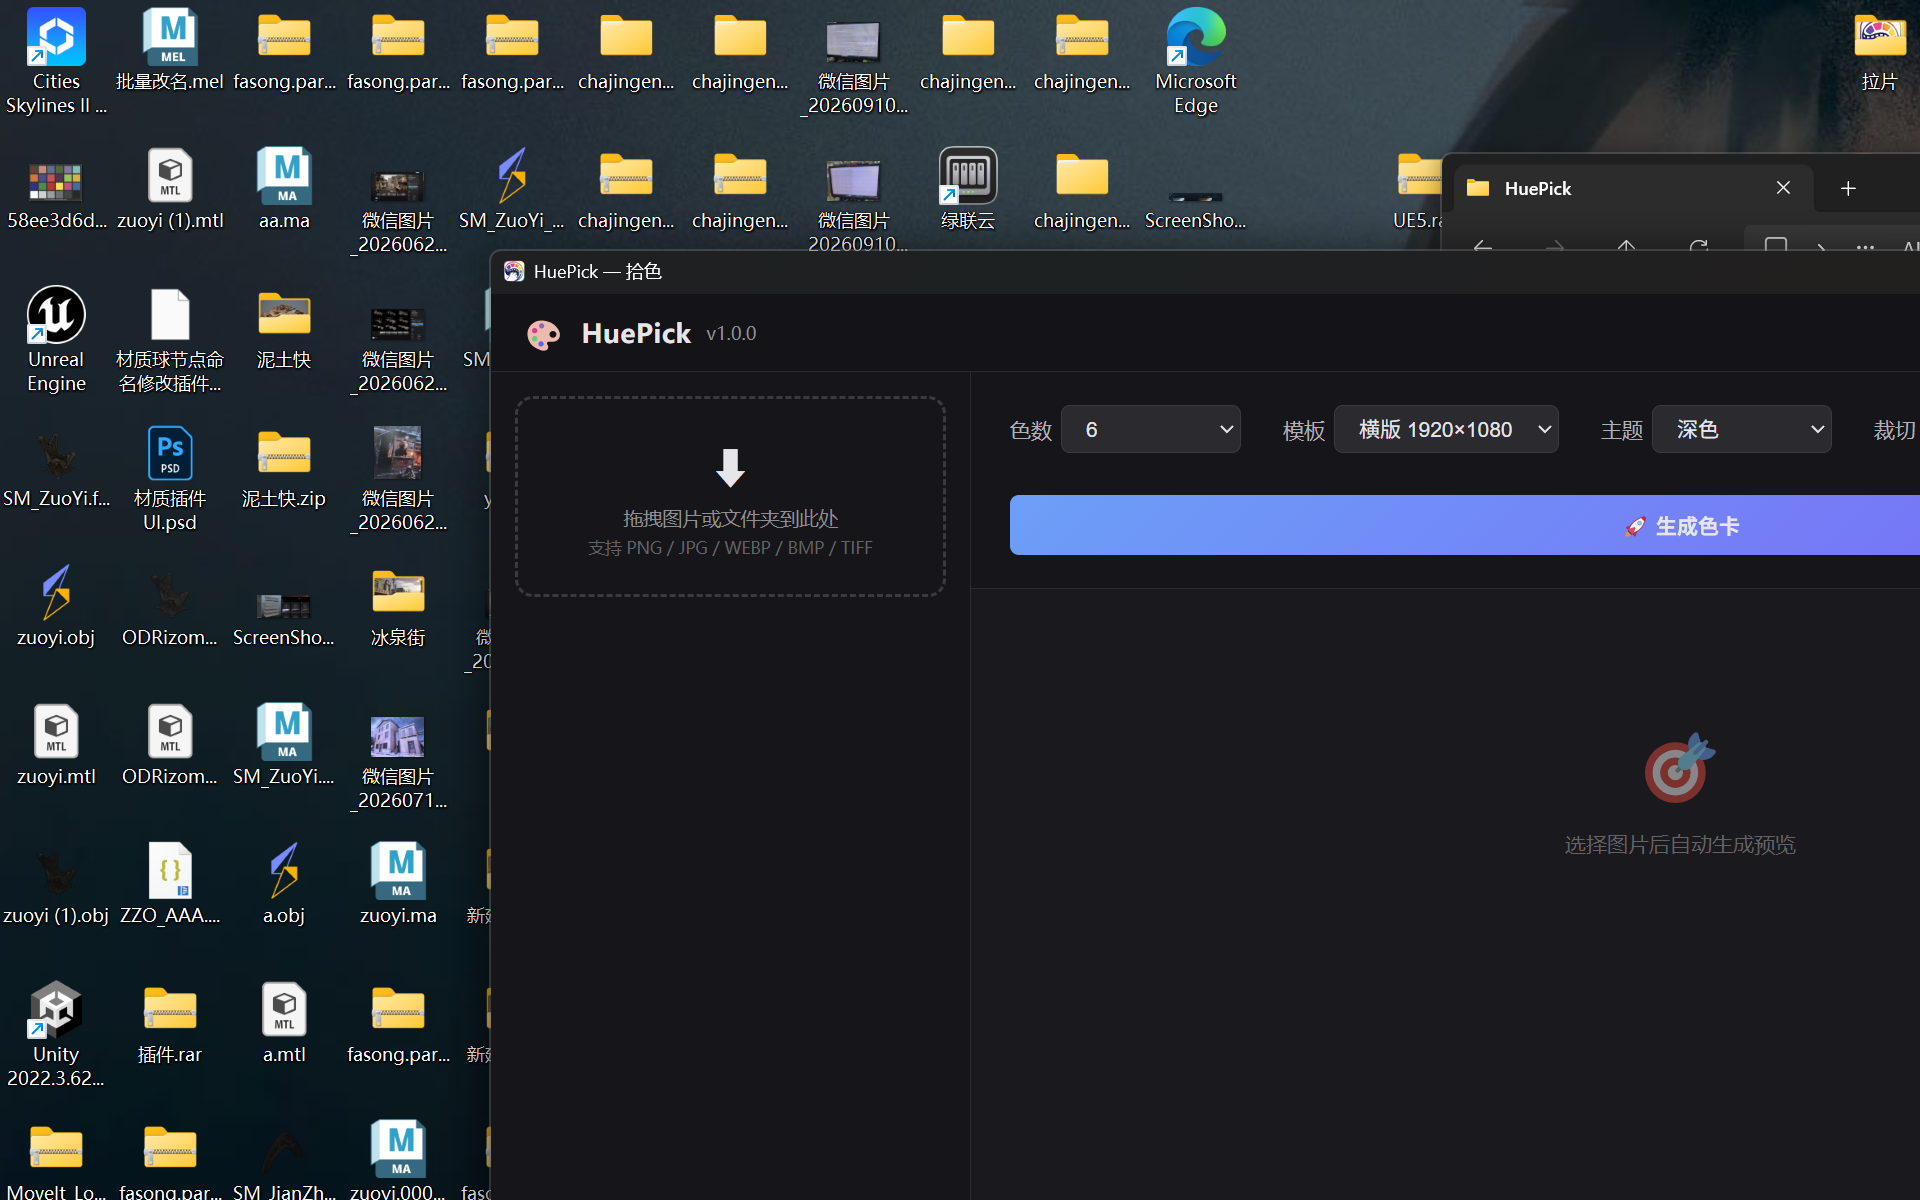
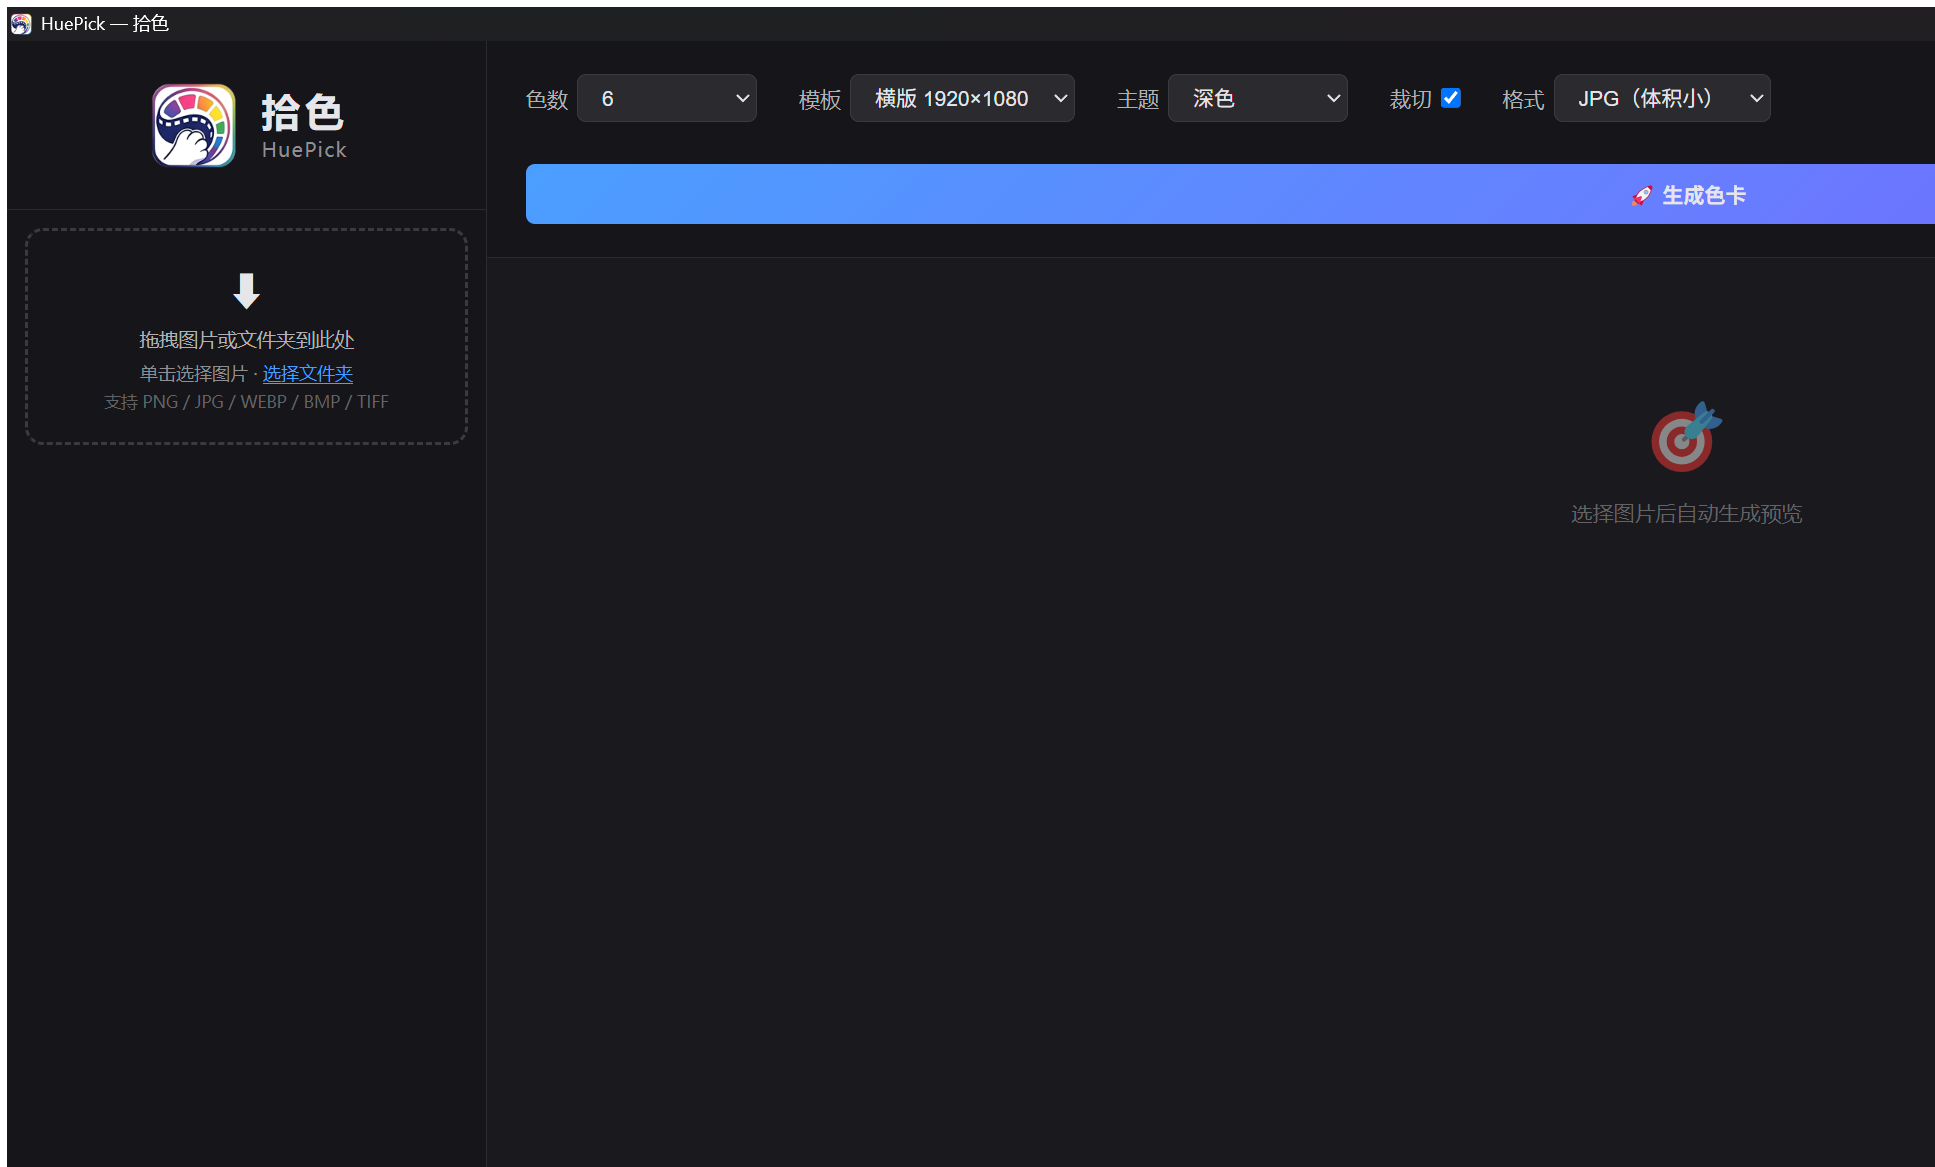
patch: 品牌区放大居中 + 文档更新到 v1.2.0
- 品牌区尺寸升级：Logo 64x64（圆角 14px），中文「拾色」26px，英文 HuePick 13px
- 品牌区整体居中，padding 24px
- 更新主界面图鉴截图 ui_main.png（反映新布局：无顶栏 + 品牌区左栏顶部 + 底栏）
- MD 文档版本号 v1.0.0 → v1.2.0，重命名 HuePick_安装使用说明_v1.2.0.md
- gen_docx.js 同步：第四节描述更新为新布局（9 个区域含底栏），全部版本号引用 v1.2.0

diff --git a/electron/renderer/style.css b/electron/renderer/style.css
@@ -26,20 +26,34 @@ body {
 .brand {
   display: flex;
   align-items: center;
-  gap: 10px;
-  padding: 14px 16px;
+  justify-content: center;
+  gap: 14px;
+  padding: 24px 16px;
   border-bottom: 1px solid #2a2a30;
 }
 .brand .logo {
-  width: 28px;
-  height: 28px;
-  border-radius: 6px;
+  width: 64px;
+  height: 64px;
+  border-radius: 14px;
   flex-shrink: 0;
 }
-.brand .name {
+.brand-text {
+  display: flex;
+  flex-direction: column;
+  align-items: flex-start;
+  gap: 2px;
+}
+.brand-name-cn {
   font-weight: 600;
-  font-size: 16px;
-  letter-spacing: 0.5px;
+  font-size: 26px;
+  letter-spacing: 3px;
+  line-height: 1.2;
+}
+.brand-name-en {
+  font-size: 13px;
+  color: #8e8e93;
+  letter-spacing: 1px;
+  line-height: 1.2;
 }
 
 button {

diff --git a/electron/renderer/index.html b/electron/renderer/index.html
@@ -13,7 +13,10 @@
     <section class="panel left">
       <div class="brand">
         <img class="logo" src="assets/logo.png" alt="HuePick" />
-        <span class="name">HuePick</span>
+        <div class="brand-text">
+          <div class="brand-name-cn">拾色</div>
+          <div class="brand-name-en">HuePick</div>
+        </div>
       </div>
 
       <div id="drop" class="dropzone" title="点击选择图片（可多选），或拖拽图片/文件夹到此处">
